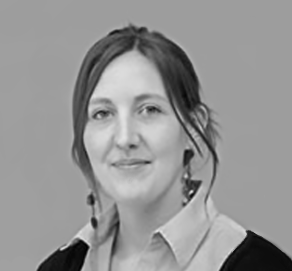
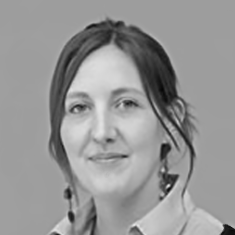
breakpoint updates

Changed region(s): [[0.1191, 0.0596, 1.0, 1.0]]

diff --git a/_site/assets/styles/main.css b/_site/assets/styles/main.css
@@ -3955,7 +3955,7 @@ ul.nav__mobile-contents > li > ul.nav__second-level > li {
   border-top: 2px solid #00B398; }
 
 .feed__team-member-wrapper {
-  margin: 0 0 180px 0; }
+  margin: 0 0 62px 0; }
   .feed__team-member-wrapper .feed_item__is-horizontal:hover {
     background: none; }
 
@@ -4060,7 +4060,7 @@ ul.nav__mobile-contents > li > ul.nav__second-level > li {
   grid-row: 2; }
   @media (max-width: 767px) {
     .banner__header-title {
-      margin: 0 0 -14px -12px; } }
+      margin: 0 0 0px -12px; } }
 
 .banner__header-blank {
   grid-row: 2; }
@@ -4190,6 +4190,13 @@ article.banner__article {
     grid-column: 3/10;
     margin: 70px 0 0 50px; } }
 
+@media (min-width: 500px) and (max-width: 767px) {
+  .page__g-12 #mc-embedded-subscribe-form {
+    grid-column: 2/-2; } }
+
+@media (max-width: 499px) {
+  .page__g-12 #mc-embedded-subscribe-form {
+    grid-column: 1/-1; } }
 @media (min-width: 1000px) {
   .page__g-12 .section__sub-head,
   .page__g-12 #mc-embedded-subscribe-form {

diff --git a/_includes/teamfeed.html b/_includes/teamfeed.html
@@ -2,7 +2,7 @@
 <div class="feed__team-member-wrapper">
 <!-- <a class="banner__feed-item" href="{{post.permalink}}"> -->
 <article class="feed_item__is-horizontal__blk">
-	<img class="image-medium image-bg is-square feed-item__image" src="{{ 	member.square-preview-image }}">
+	<img class="image-medium image-bg is-square feed-item__image" src="{{ member.image }}">
 	<h2 class="feed-item__title headline_sml is-uppercase">{{ member.name }}</h2>
 	<p>{{ member.description }}</p>
 	{{ member.content}}

diff --git a/_sass/03-organisms/_page__g-12.scss b/_sass/03-organisms/_page__g-12.scss
@@ -74,6 +74,13 @@
 	}
 
 
+
+	@include media('≥500px', '<tablet') { #mc-embedded-subscribe-form { grid-column: 2/-2; } }
+
+
+	@include media('<500px') { #mc-embedded-subscribe-form { grid-column: 1/-1; } }
+
+
 	@include media('≥1000px') {
 
 		& .section__sub-head,

diff --git a/_layouts/no-banner.html b/_layouts/no-banner.html
@@ -1,0 +1,9 @@
+---
+layout: default
+---
+<div class="page__g-12">
+	<div style="height: 60px; grid-column: 1/-1;"></div>
+	<article class="banner__article is-longform">
+	{{ content }}
+	</article>
+</div>

diff --git a/_sass/03-organisms/_banner-top.scss b/_sass/03-organisms/_banner-top.scss
@@ -34,7 +34,7 @@
 
 .banner__header-title { 
   grid-row: 2;
-  @include media ('<tablet') { margin: 0 0 -14px -12px; }
+  @include media ('<tablet') { margin: 0 0 0px -12px; }
 }
 
 

diff --git a/_sass/03-organisms/_feed-item.scss b/_sass/03-organisms/_feed-item.scss
@@ -72,7 +72,7 @@
 
 .feed__team-member-wrapper { 
 	
-	margin: 0 0 180px 0; 
+	margin: 0 0 62px 0; 
 
 	& .feed_item__is-horizontal:hover { background: none; }
 }

diff --git a/collections/_team/01-mark-leonard.md b/collections/_team/01-mark-leonard.md
@@ -8,3 +8,4 @@ description: Course Designer and Lead Practioner
 - Taught the first "Frantic World" courses in the workplace
 - Taught the first MBCT course to Oxford students
 - Innovator building new teaching approaches - from a therapy to systemic change
+- Often posts on [Linkedin](https://www.linkedin.com/in/mark-leonard-a0997816/)

diff --git a/collections/_team/03-robin-leonard.md b/collections/_team/03-robin-leonard.md
@@ -1,5 +1,5 @@
 ---
-image:  /assets/images/people/Robin-Leonard.png
+image:  /assets/images/people/robin.jpg
 name: Robin Leonard
 description: Practitioner & Designer
 

diff --git a/people.md b/people.md
@@ -1,5 +1,5 @@
 ---
-layout: banner-page
+layout: no-banner
 permalink: /people
 title: people
 ---
